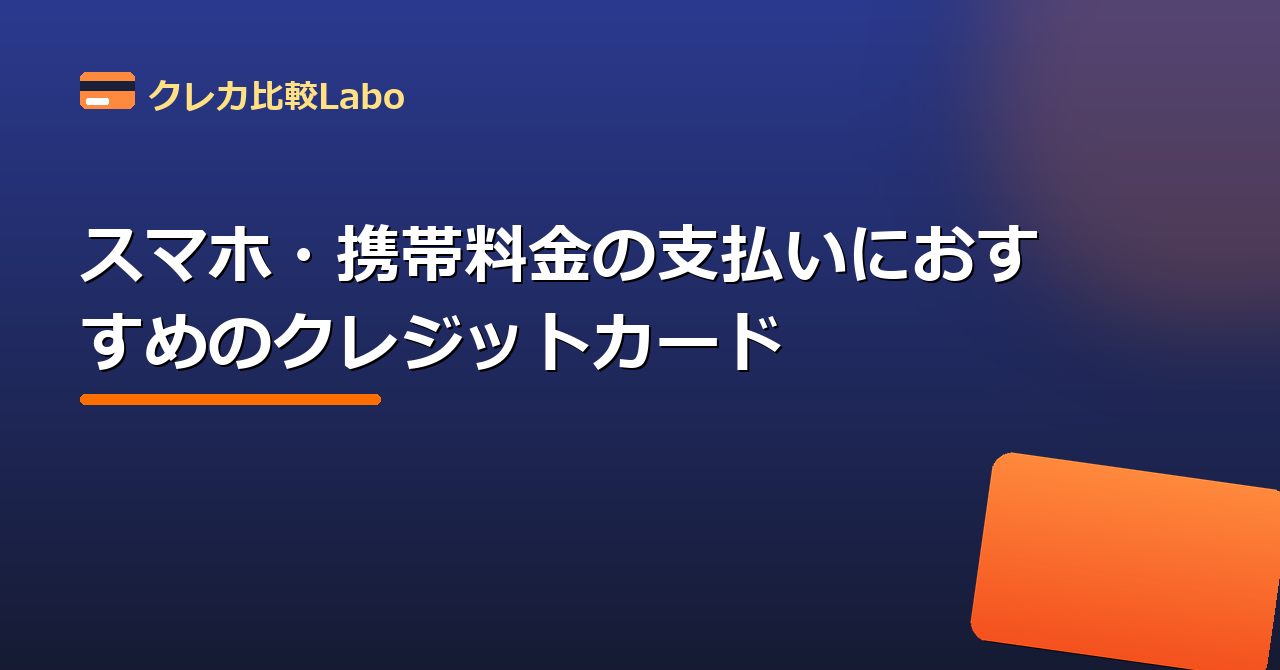
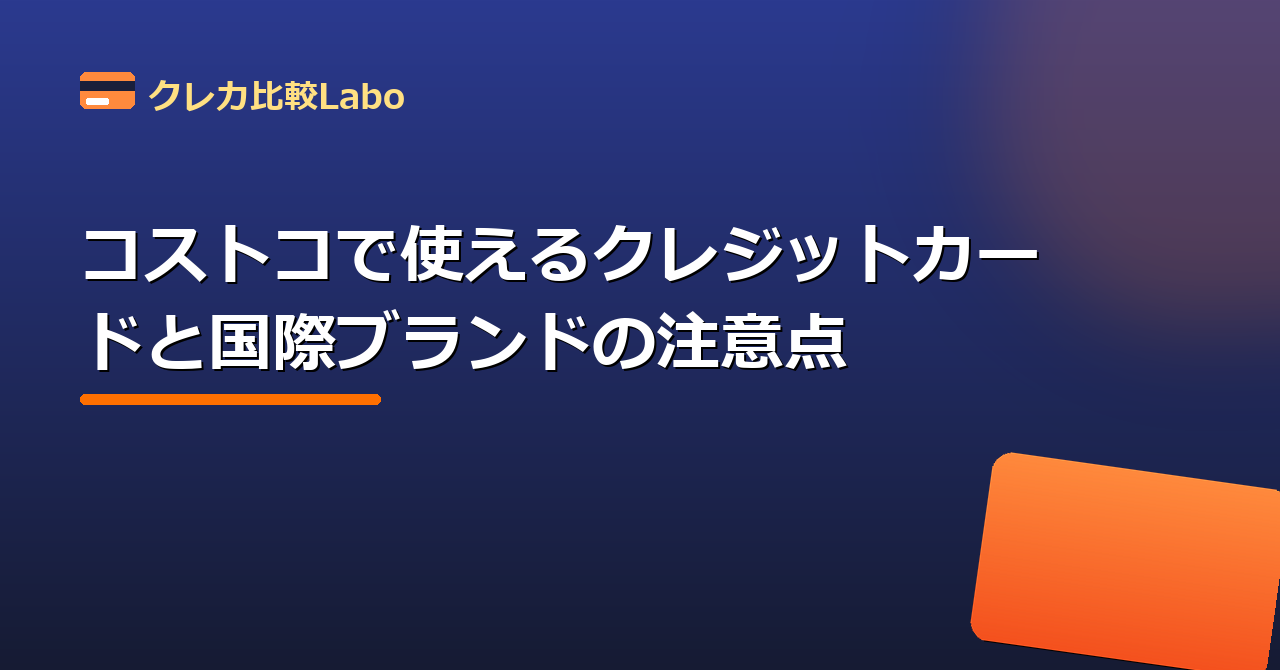
Add broker auto-linking in articles (drive traffic to securities pages incl. monex-sec)

Changed region(s): [[0.0625, 0.3284, 0.8125, 0.5672], [0.0625, 0.4478, 0.4062, 0.5672]]

diff --git a/articles/nisa-card-combo.html b/articles/nisa-card-combo.html
@@ -123,9 +123,9 @@
     <h2 id="sec-1">楽天証券×楽天カード</h2>
     <p class="review-text">楽天ポイントを貯めている人に最適。<a href="../cards/rakuten-card.html" class="card-inline-link">楽天カード</a>でのクレカ積立でポイントが貯まり、楽天市場での買い物などとあわせて「楽天経済圏」でポイントを効率よく貯められます。アプリや画面が見やすく初心者にも使いやすいのが特徴です。</p>
     <h2 id="sec-2">SBI証券×三井住友カード</h2>
-    <p class="review-text">口座数No.1クラスのSBI証券は、<a href="../cards/smbc-card.html" class="card-inline-link">三井住友カード(NL)</a>でのクレカ積立でVポイントが貯まります。ゴールドカードにすると還元率が上がるため、年間100万円利用で年会費無料になる三井住友カード ゴールド(NL)との相性が良好です。</p>
+    <p class="review-text">口座数No.1クラスの<a href="../securities/sbi-sec.html" class="card-inline-link">SBI証券</a>は、<a href="../cards/smbc-card.html" class="card-inline-link">三井住友カード(NL)</a>でのクレカ積立でVポイントが貯まります。ゴールドカードにすると還元率が上がるため、年間100万円利用で年会費無料になる三井住友カード ゴールド(NL)との相性が良好です。</p>
     <h2 id="sec-3">マネックス証券×マネックスカード</h2>
-    <p class="review-text">マネックス証券はクレカ積立の還元率が高めで、投資情報やアナリストレポートが充実しています。米国株の取扱いにも強く、本格的に分析しながら投資したい人に向いています。</p>
+    <p class="review-text"><a href="../securities/monex-sec.html" class="card-inline-link">マネックス証券</a>はクレカ積立の還元率が高めで、投資情報やアナリストレポートが充実しています。米国株の取扱いにも強く、本格的に分析しながら投資したい人に向いています。</p>
     <h2 id="sec-4">自分の経済圏で選ぼう</h2>
     <p class="review-text">結論として、普段貯めているポイント(楽天/Vポイント/dポイントなど)に合わせて組み合わせを選ぶのが失敗しないコツです。当サイトのネット証券比較ページで、各社の手数料・還元率・取扱商品を見比べてみてください。</p>
     <div class="article-card-links">

diff --git a/articles/point-keizaiken.html b/articles/point-keizaiken.html
@@ -121,9 +121,9 @@
     <h2 id="sec-0">経済圏とは何か</h2>
     <p class="review-text">経済圏とは、同じグループのサービス(カード・銀行・スマホ・ショッピング・証券など)で生活を揃えることで、ポイントが集中して貯まり、優遇も受けられる仕組みのことです。バラバラに使うより、1つの経済圏に寄せるほうがポイント効率は数倍になります。</p>
     <h2 id="sec-1">楽天経済圏(楽天ポイント)</h2>
-    <p class="review-text">楽天市場・<a href="../cards/rakuten-card.html" class="card-inline-link">楽天カード</a>・楽天銀行・楽天証券・楽天モバイルと、生活全般をカバーする最大級の経済圏。楽天市場でのSPU(スーパーポイントアップ)により、サービスを使うほど還元率が上がるのが特徴です。ネットショッピング中心の人に向いています。</p>
+    <p class="review-text">楽天市場・<a href="../cards/rakuten-card.html" class="card-inline-link">楽天カード</a>・楽天銀行・<a href="../securities/rakuten-sec.html" class="card-inline-link">楽天証券</a>・楽天モバイルと、生活全般をカバーする最大級の経済圏。楽天市場でのSPU(スーパーポイントアップ)により、サービスを使うほど還元率が上がるのが特徴です。ネットショッピング中心の人に向いています。</p>
     <h2 id="sec-2">Vポイント経済圏(三井住友系)</h2>
-    <p class="review-text">三井住友カードを軸にした経済圏で、対象のコンビニ・飲食店でのスマホタッチ決済の高還元が最大の武器です。SBI証券でのクレカ積立にも対応。コンビニやカフェの利用が多い人、投資も始めたい人と相性抜群です。</p>
+    <p class="review-text">三井住友カードを軸にした経済圏で、対象のコンビニ・飲食店でのスマホタッチ決済の高還元が最大の武器です。<a href="../securities/sbi-sec.html" class="card-inline-link">SBI証券</a>でのクレカ積立にも対応。コンビニやカフェの利用が多い人、投資も始めたい人と相性抜群です。</p>
     <h2 id="sec-3">dポイント経済圏・Ponta経済圏</h2>
     <p class="review-text">dポイントはドコモユーザーならスマホ料金との連携で効率よく貯まり、コンビニや飲食店など街の加盟店が豊富です。Pontaはauユーザー向けで、au PAYとの組み合わせが軸になります。スマホキャリアに合わせて選ぶのが基本です。</p>
     <h2 id="sec-4">迷ったら「よく行く店」で選ぶ</h2>

diff --git a/articles/kureka-tsumitate.html b/articles/kureka-tsumitate.html
@@ -123,7 +123,7 @@
     <h2 id="sec-1">最大のメリットはポイント還元</h2>
     <p class="review-text">通常、投資信託を現金で積み立ててもポイントは付きません。クレカ積立なら決済額の0.5〜1%程度のポイントが付くため、同じ金額を投資しても「ポイント分だけお得」になります。貯まったポイントを再投資に回せる証券会社もあります。</p>
     <h2 id="sec-2">還元率はカードと証券会社の組み合わせで決まる</h2>
-    <p class="review-text">クレカ積立の還元率は「どの証券会社で、どのカードを使うか」で変わります。例えば三井住友カード×SBI証券、<a href="../cards/rakuten-card.html" class="card-inline-link">楽天カード</a>×楽天証券、マネックスカード×マネックス証券など、同じ系列で揃えると還元率が高くなる傾向があります。カードのランク(一般・ゴールド)でも還元率が変わります。</p>
+    <p class="review-text">クレカ積立の還元率は「どの証券会社で、どのカードを使うか」で変わります。例えば三井住友カード×<a href="../securities/sbi-sec.html" class="card-inline-link">SBI証券</a>、<a href="../cards/rakuten-card.html" class="card-inline-link">楽天カード</a>×<a href="../securities/rakuten-sec.html" class="card-inline-link">楽天証券</a>、マネックスカード×<a href="../securities/monex-sec.html" class="card-inline-link">マネックス証券</a>など、同じ系列で揃えると還元率が高くなる傾向があります。カードのランク(一般・ゴールド)でも還元率が変わります。</p>
     <h2 id="sec-3">積立上限額に注意</h2>
     <p class="review-text">クレカ積立には月10万円までという上限があります(2024年の制度改正で5万円から引き上げ)。新NISAのつみたて投資枠(年120万円=月10万円)とちょうど合うため、枠を最大限ポイント還元で埋めることが可能です。</p>
     <h2 id="sec-4">まとめ:同系列で揃えるのがお得</h2>

diff --git a/articles/point-toushi.html b/articles/point-toushi.html
@@ -117,7 +117,7 @@
     <h2 id="sec-0">ポイント投資とは</h2>
     <p class="review-text">ポイント投資とは、買い物などで貯まったポイントを使って投資信託や株式を購入できるサービスです。現金を使わずに始められるため、「いきなり現金を投じるのは不安」という投資初心者の第一歩として人気です。</p>
     <h2 id="sec-1">使えるポイントの種類</h2>
-    <p class="review-text">代表的なのは楽天ポイント(楽天証券)、Vポイント(SBI証券)、dポイント、Pontaポイントなどです。クレジットカードの利用で貯まったポイントをそのまま投資に回せるため、カードと証券口座を連携しておくとスムーズです。</p>
+    <p class="review-text">代表的なのは楽天ポイント(<a href="../securities/rakuten-sec.html" class="card-inline-link">楽天証券</a>)、Vポイント(<a href="../securities/sbi-sec.html" class="card-inline-link">SBI証券</a>)、dポイント、Pontaポイントなどです。クレジットカードの利用で貯まったポイントをそのまま投資に回せるため、カードと証券口座を連携しておくとスムーズです。</p>
     <h2 id="sec-2">始め方は3ステップ</h2>
     <p class="review-text">(1)ポイントが貯まる証券口座を開設する、(2)保有ポイントを投資設定で使う選択をする、(3)買いたい投資信託や株を選ぶ。たったこれだけです。100ポイント(=100円相当)など少額から始められる証券会社が多く、気軽に試せます。</p>
     <h2 id="sec-3">ポイント投資のメリットと注意点</h2>

diff --git a/articles/shin-nisa-hajimekata.html b/articles/shin-nisa-hajimekata.html
@@ -117,7 +117,7 @@
     <h2 id="sec-0">1. 新NISAとは?まずは仕組みを理解</h2>
     <p class="review-text">新NISA(少額投資非課税制度)は、投資で得た利益(値上がり益・配当)が非課税になる制度です。通常は約20%かかる税金がゼロになります。年間の投資枠は「つみたて投資枠120万円」「成長投資枠240万円」の合計最大360万円、生涯では1,800万円まで非課税で保有できます。</p>
     <h2 id="sec-1">2. まずはネット証券で口座を開く</h2>
-    <p class="review-text">NISAを使うには、銀行や証券会社でNISA口座を開設します。手数料が安く取扱商品が豊富なネット証券(楽天証券・SBI証券など)がおすすめです。口座開設は無料で、本人確認書類とマイナンバーがあればスマホで完結します。NISA口座は1人1口座のみのため、長く使う前提で選びましょう。</p>
+    <p class="review-text">NISAを使うには、銀行や証券会社でNISA口座を開設します。手数料が安く取扱商品が豊富なネット証券(<a href="../securities/rakuten-sec.html" class="card-inline-link">楽天証券</a>・<a href="../securities/sbi-sec.html" class="card-inline-link">SBI証券</a>など)がおすすめです。口座開設は無料で、本人確認書類とマイナンバーがあればスマホで完結します。NISA口座は1人1口座のみのため、長く使う前提で選びましょう。</p>
     <h2 id="sec-2">3. クレカ積立でポイントを貯めながら投資</h2>
     <p class="review-text">ネット証券では、クレジットカードで投資信託を毎月自動積立できる「クレカ積立」に対応しています。積立額に対して0.5〜1%程度のポイントが付与されるため、現金で積み立てるよりお得です。例えば毎月5万円を還元率1%で積み立てれば、年間6,000円分のポイントが貯まります。</p>
     <h2 id="sec-3">4. 何を買えばいい?初心者向けの考え方</h2>

diff --git a/articles/vs-rakuten-smbc.html b/articles/vs-rakuten-smbc.html
@@ -123,7 +123,7 @@
     <h2 id="sec-1">年会費と基本還元率</h2>
     <p class="review-text">どちらも年会費は永年無料です。楽天カードは基本還元率が1%とシンプルに高め。三井住友カード（NL）は通常0.5%ですが、対象店舗でのスマホのタッチ決済で還元率が大きく上がる仕組みです。常時1%が欲しいなら楽天、対象店を多用するなら三井住友が有利です。</p>
     <h2 id="sec-2">ポイントの貯まりやすさ・使いやすさ</h2>
-    <p class="review-text">楽天ポイントは楽天市場・街の加盟店・楽天サービスで幅広く使え、ポイントの出口に困りません。三井住友のVポイントもコンビニや対象店、SBI証券のクレカ積立などで活用でき、近年使い道が広がっています。普段貯めているポイント経済圏に合わせましょう。</p>
+    <p class="review-text">楽天ポイントは楽天市場・街の加盟店・楽天サービスで幅広く使え、ポイントの出口に困りません。三井住友のVポイントもコンビニや対象店、<a href="../securities/sbi-sec.html" class="card-inline-link">SBI証券</a>のクレカ積立などで活用でき、近年使い道が広がっています。普段貯めているポイント経済圏に合わせましょう。</p>
     <h2 id="sec-3">付帯特典・保険</h2>
     <p class="review-text">三井住友カード（NL）はナンバーレスでセキュリティが高く、海外旅行傷害保険が利用付帯で付きます。楽天カードも海外旅行保険が利用付帯で付帯し、楽天市場でのポイントアップ（SPU）が魅力です。旅行重視なら両者とも条件を満たせば保険が使えます。</p>
     <h2 id="sec-4">まとめ：両方持ちもアリ</h2>

diff --git a/articles/vs-smbc-epos.html b/articles/vs-smbc-epos.html
@@ -123,7 +123,7 @@
     <h2 id="sec-1">年会費・還元率</h2>
     <p class="review-text">ともに年会費無料。三井住友カード（NL）は対象店でのタッチ決済で高還元になる一方、エポスは通常還元率は控えめですが、マルイでの優待やエポスポイントアップサイト経由でのお得さが特徴です。</p>
     <h2 id="sec-2">特典の方向性</h2>
-    <p class="review-text">エポスカードはマルイ・モディでの優待や、提携店舗での割引が豊富。三井住友カード（NL）はナンバーレスのセキュリティとSBI証券のクレカ積立連携が魅力です。</p>
+    <p class="review-text">エポスカードはマルイ・モディでの優待や、提携店舗での割引が豊富。三井住友カード（NL）はナンバーレスのセキュリティと<a href="../securities/sbi-sec.html" class="card-inline-link">SBI証券</a>のクレカ積立連携が魅力です。</p>
     <h2 id="sec-3">旅行保険</h2>
     <p class="review-text">エポスカードは海外旅行傷害保険が付帯し（付帯条件は要確認）、旅行好きに支持されています。三井住友カード（NL）も海外旅行保険が利用付帯です。</p>
     <h2 id="sec-4">まとめ</h2>

diff --git a/articles/vs-smbc-recruit.html b/articles/vs-smbc-recruit.html
@@ -123,7 +123,7 @@
     <h2 id="sec-1">還元率のタイプ</h2>
     <p class="review-text">三井住友カード（NL）は通常0.5%ながら対象店のタッチ決済で大きく上がる「メリハリ型」。リクルートカードは基本1.2%の「一律高還元型」。よく行く店が対象店かどうかが分かれ目です。</p>
     <h2 id="sec-2">付帯・連携</h2>
-    <p class="review-text">三井住友カード（NL）はナンバーレスのセキュリティとSBI証券のクレカ積立連携が強み。リクルートカードは電子マネーチャージでもポイントが付く点（上限あり）が評価されています。</p>
+    <p class="review-text">三井住友カード（NL）はナンバーレスのセキュリティと<a href="../securities/sbi-sec.html" class="card-inline-link">SBI証券</a>のクレカ積立連携が強み。リクルートカードは電子マネーチャージでもポイントが付く点（上限あり）が評価されています。</p>
     <h2 id="sec-3">ポイントの使い道</h2>
     <p class="review-text">Vポイントはコンビニや対象店、投資で活用可能。リクルートポイントはじゃらん・ホットペッパー・Ponta交換が便利です。</p>
     <h2 id="sec-4">まとめ</h2>

diff --git a/articles/vs-smbcgold-jcbgold.html b/articles/vs-smbcgold-jcbgold.html
@@ -125,7 +125,7 @@
     <h2 id="sec-2">空港ラウンジ・旅行特典</h2>
     <p class="review-text">どちらも国内主要空港のラウンジが利用可能。JCBゴールドは旅行傷害保険の補償が手厚く、グルメ優待なども揃います。旅行・出張が多い人はJCBゴールドの特典が活きます。</p>
     <h2 id="sec-3">還元・投資連携</h2>
-    <p class="review-text">三井住友ゴールド（NL）は対象店のタッチ決済高還元に加え、SBI証券のクレカ積立で一般カードより高い還元率が狙えます。資産形成も視野に入れるなら有力です。</p>
+    <p class="review-text">三井住友ゴールド（NL）は対象店のタッチ決済高還元に加え、<a href="../securities/sbi-sec.html" class="card-inline-link">SBI証券</a>のクレカ積立で一般カードより高い還元率が狙えます。資産形成も視野に入れるなら有力です。</p>
     <h2 id="sec-4">まとめ</h2>
     <p class="review-text">「100万円修行で実質無料＋投資」狙いなら三井住友ゴールド（NL）、「手厚い保険と特典」狙いならJCBゴールド。使い方で選びましょう。</p>
     <div class="article-card-links">

diff --git a/generate.py b/generate.py
@@ -130,6 +130,52 @@ def link_cards(text, cards, depth=1, linked_ids=None, skip_id=None):
     return rx.sub(repl, text)
 
 
+_BROKER_LINK_CACHE = {}
+# 証券会社名の表記ゆれ（本文で使われうる別名）→ broker id
+BROKER_ALIASES = {
+    "dmm-kabu": ["DMM株", "DMM 株"],
+}
+
+
+def _broker_link_regex(brokers):
+    """証券会社名（正式名＋別名）→id の正規表現。長い表記優先。カード名とは部分一致しないので併用安全。"""
+    key = id(brokers)
+    if key not in _BROKER_LINK_CACHE:
+        pairs = [(b["name"], b["id"]) for b in brokers]
+        for bid, aliases in BROKER_ALIASES.items():
+            for a in aliases:
+                pairs.append((a, bid))
+        pairs.sort(key=lambda x: len(x[0]), reverse=True)
+        text_to_id = {t: i for t, i in pairs}
+        pat = "|".join(re.escape(t) for t, _ in pairs)
+        _BROKER_LINK_CACHE[key] = (re.compile(pat), text_to_id)
+    return _BROKER_LINK_CACHE[key]
+
+
+def link_brokers(text, brokers, depth=1, linked_ids=None, skip_id=None):
+    """本文中の証券会社名を、その証券の詳細ページ(securities/<id>)へのリンクに置換する。
+    link_cards と同じ設計。カード名と証券名は部分一致しないため順不同で併用可。
+    linked_ids で各証券の初出1回のみリンク（過剰リンク防止）。"""
+    if not text or not brokers:
+        return text
+    rx, text_to_id = _broker_link_regex(brokers)
+    p = "" if depth == 0 else "../"
+
+    def repl(m):
+        matched = m.group(0)
+        bid = text_to_id[matched]
+        if bid == skip_id:
+            return matched
+        if linked_ids is not None:
+            if bid in linked_ids:
+                return matched
+            linked_ids.append(bid)
+        return (f'<a href="{p}securities/{bid}.html" '
+                f'class="card-inline-link">{matched}</a>')
+
+    return rx.sub(repl, text)
+
+
 # 記事の関連度判定用キーワード（タイトル・説明・リードに含まれる語の共有数で関連記事を選ぶ）
 RELATED_VOCAB = [
     "還元率", "ポイント", "年会費", "審査", "信用情報", "限度額", "延滞", "多重申込",
@@ -1396,6 +1442,7 @@ def build_article_pages(data):
                  path=f"articles/{a['id']}.html", og_image=eyecatch)
         h += header(site, depth=1)
         linked = []  # 記事内で言及・リンクしたカードid（初出順）
+        linked_b = []  # 記事内で言及・リンクした証券id（初出順・過剰リンク防止）
         h += f"""
 <article class="detail-page">
   <div class="container container-narrow">
@@ -1403,7 +1450,7 @@ def build_article_pages(data):
     <h1 class="article-title">{a['title']}</h1>
     <p class="article-date">📅 {fmt_date(article_date(a))} 公開</p>
     <p class="article-byline">✍️ 監修・執筆：<a href="../about.html">{site['name']} 編集責任者</a>（金融業界歴20年以上・元クレジットカード会社実務）</p>
-    <p class="article-lead">{link_cards(a['lead'], data['cards'], 1, linked)}</p>"""
+    <p class="article-lead">{link_brokers(link_cards(a['lead'], data['cards'], 1, linked), data.get('brokers', []), 1, linked_b)}</p>"""
         # 記事内の図解（対象記事のみ・オリジナルSVG）
         if a["id"] in DIAGRAMS:
             dfunc, caption = DIAGRAMS[a["id"]]
@@ -1430,7 +1477,7 @@ def build_article_pages(data):
         for i, s in enumerate(secs):
             h += f"""
     <h2 id="sec-{i}">{s['h']}</h2>
-    <p class="review-text">{link_cards(s['p'], data['cards'], 1, linked)}</p>"""
+    <p class="review-text">{link_brokers(link_cards(s['p'], data['cards'], 1, linked), data.get('brokers', []), 1, linked_b)}</p>"""
         # 記事で紹介したカードの詳細リンク（本文で言及されたカードを末尾にまとめる）
         if linked:
             h += """